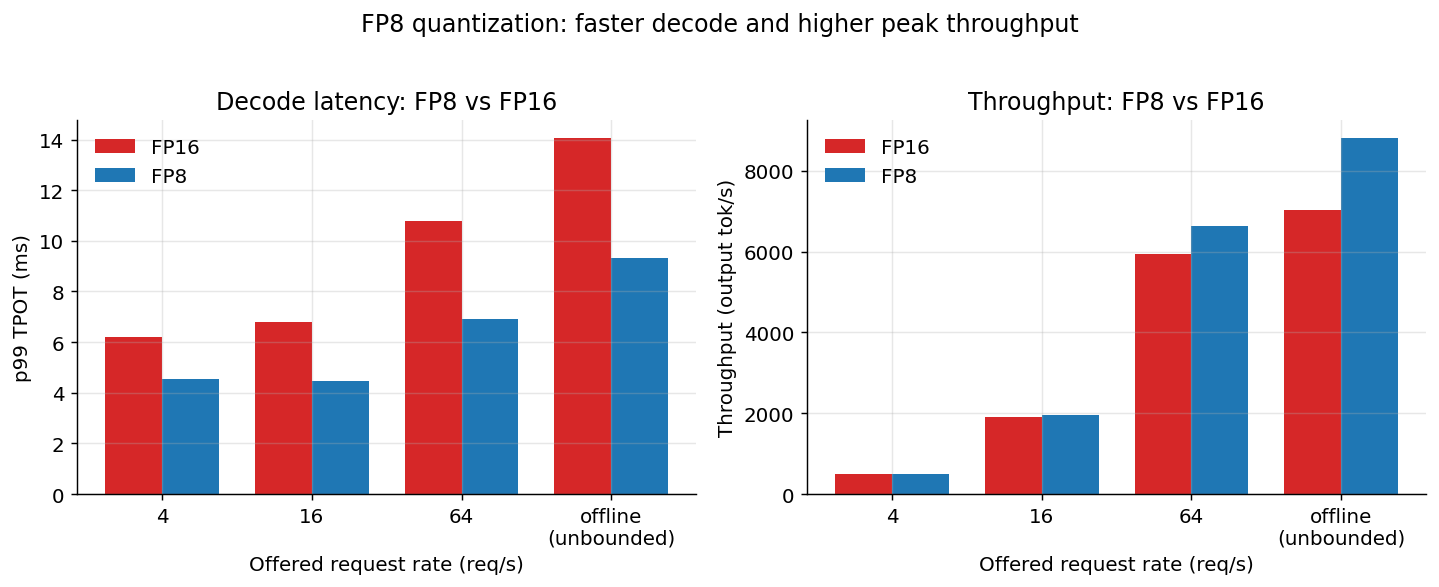
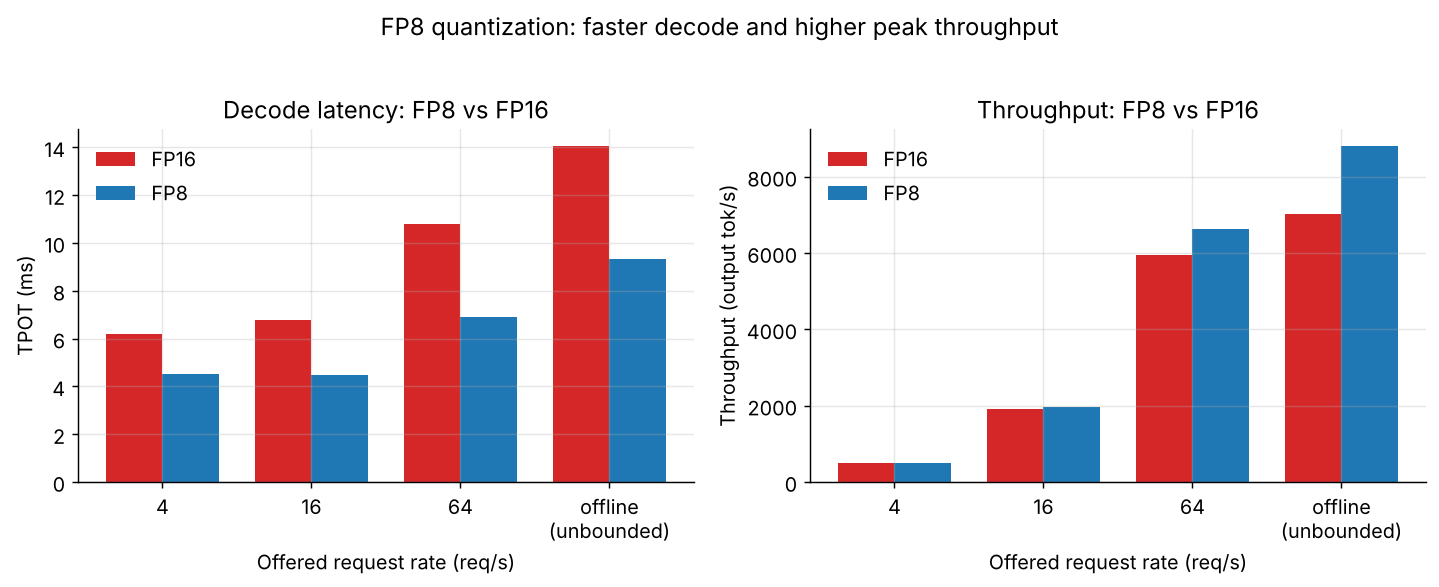
docs: correct CUDA graph and FP8 reductions, TPOT labels and sample limits

diff --git a/plot_results.py b/plot_results.py
@@ -89,7 +89,7 @@ def plot_sweep_latency(df):
     axA.set_title("Time-to-first-token cliffs at saturation")
     lo, hi = df["p99_ttft_ms"].iloc[0], df["p99_ttft_ms"].iloc[-1]
     axA.annotate(
-        f"~{lo:.0f} ms  ->  {hi:,.0f} ms\n(~{hi / lo:.0f}x)",
+        f"~{lo:.0f} ms  ->  {hi:,.0f} ms\n(unbounded burst)",
         xy=(xt.iloc[-1], hi), xytext=(xt.iloc[1], hi * 0.35),
         fontsize=9, color="#333",
         arrowprops=dict(arrowstyle="->", color="#666"),
@@ -97,7 +97,7 @@ def plot_sweep_latency(df):
 
     axB.plot(xt, df["p99_tpot_ms"], marker="o", color=C_PRIMARY, lw=2)
     axB.set_xlabel("Achieved throughput (output tok/s)")
-    axB.set_ylabel("p99 TPOT (ms)")
+    axB.set_ylabel("TPOT (ms)")
     axB.set_title("Time-per-output-token degrades gently")
     lo2, hi2 = df["p99_tpot_ms"].iloc[0], df["p99_tpot_ms"].iloc[-1]
     axB.annotate(
@@ -124,12 +124,13 @@ def plot_cuda_graphs(df):
            color=C_PRIMARY, label="CUDA graphs on (default)")
     ax.set_xticks(list(x))
     ax.set_xticklabels([f"{int(r)} req/s" for r in df["rate"]])
-    ax.set_ylabel("p99 TPOT (ms)")
+    ax.set_ylabel("TPOT (ms)")
     ax.set_title("CUDA graphs amortize per-step launch overhead")
     ax.legend(frameon=False)
     for i, (_, row) in enumerate(df.iterrows()):
         ax.text(i, max(row["tpot_eager_ms"], row["tpot_graphs_on_ms"]) + 0.25,
-                f"-{int(row['gap_pct'])}%", ha="center", fontsize=9, color="#333")
+                f"-{100 * (row['tpot_eager_ms'] - row['tpot_graphs_on_ms']) / row['tpot_eager_ms']:.0f}%",
+                ha="center", fontsize=9, color="#333")
     fig.tight_layout()
     out = PLOTS / "cuda_graphs_tpot.png"
     fig.savefig(out)
@@ -148,7 +149,7 @@ def plot_fp8_vs_fp16(df):
     axA.set_xticks(list(x))
     axA.set_xticklabels(labels)
     axA.set_xlabel("Offered request rate (req/s)")
-    axA.set_ylabel("p99 TPOT (ms)")
+    axA.set_ylabel("TPOT (ms)")
     axA.set_title("Decode latency: FP8 vs FP16")
     axA.legend(frameon=False)
 

diff --git a/README.md b/README.md
@@ -4,56 +4,49 @@ Profiling LLM inference serving on a single **NVIDIA H100 NVL**: a latency–thr
 characterization, the impact of **CUDA graphs**, and an **FP8 vs FP16** quantization
 comparison — each as a clean controlled experiment with honest methodology and reproducible plots.
 
-**Stack:** Qwen2.5-7B-Instruct · vLLM 0.23.0 · NVIDIA H100 NVL (94 GB) · benchmarked with `vllm bench serve` (p99, Poisson arrivals, fixed output length)
+**Stack:** Qwen2.5-7B-Instruct · vLLM 0.23.0 · NVIDIA H100 NVL (94 GB) · benchmarked with `vllm bench serve` (p99 TTFT, Poisson arrivals, fixed output length)
 
 ---
 
 ## Key findings
 
-### 1. Throughput saturates near ~55 req/s · ~7,000 tok/s — and the wall is TTFT, not TPOT
+### 1. Throughput saturates near ~55 req/s · ~7,000 tok/s, and overload shows up in TTFT, not TPOT
 
-As offered load rises to saturation, the two latency metrics fail **asymmetrically**:
+As offered load rises, the two latency metrics move very differently:
 
-- **p99 TTFT** cliffs from **~45 ms** under light load to **~1,970 ms** at saturation — roughly **44×**.
-- **p99 TPOT** over the same range rises only **~2.3×** (6.5 ms → 15.3 ms).
+- **p99 TTFT** is 45-58 ms up to 16 req/s and 102 ms at 32 req/s. An unbounded burst reaches **~1,970 ms**.
+- **TPOT** over the same range rises only **~2.3×** (6.5 ms → 15.3 ms).
 
-That asymmetry is the headline: once the server saturates, queueing hammers *time-to-first-token*
-while *per-token* latency stays well-behaved. The practical consequence is that the serving SLO knee
-is set by **TTFT**, so the right operating point is back off the saturation rate to keep first-token
-latency in budget. See the full curve in [Results](#results).
+Once the server saturates, queueing delays the first token while per-token latency stays well-behaved. In this data, that makes TTFT the metric to set an operating rate from. See the full curve in [Results](#results).
+
+**Limits of this data.** Each rate is one run. The request count wasn't logged. Working back from throughput and drain time gives about 200-275 requests per run, so each p99 is roughly the 2nd or 3rd worst request. The burst's TTFT scales with how many requests arrive at once, so it isn't a capacity number. At 64 req/s the offered load is above capacity and the run lasts only about 5 seconds, so that row isn't a steady operating point.
 
 ![Latency vs achieved throughput — TTFT cliffs while TPOT degrades gently](plots/sweep_latency.png)
 
-### 2. CUDA graphs cut decode TPOT ~45–50%
+### 2. CUDA graphs cut decode TPOT 31-34%
 
-Comparing the default (CUDA graphs on) against `--enforce-eager` (graphs off) at low-to-moderate
-rates, where per-step kernel-launch overhead is a larger fraction of step time:
+Comparing the default (CUDA graphs on) against `--enforce-eager` (graphs off):
 
-| Rate (req/s) | TPOT graphs on (ms) | TPOT eager (ms) | Gap (ms) | Gap (%) |
+| Rate (req/s) | TPOT graphs on (ms) | TPOT eager (ms) | Gap (ms) | Reduction (%) |
 |---:|---:|---:|---:|---:|
-| 4  | 6.20 | 9.37 | 3.17 | 51% |
-| 8  | 6.39 | 9.27 | 2.88 | 45% |
-| 32 | 7.66 | 11.30 | 3.64 | 48% |
+| 4  | 6.20 | 9.37 | 3.17 | 34% |
+| 8  | 6.39 | 9.27 | 2.88 | 31% |
+| 32 | 7.66 | 11.30 | 3.64 | 32% |
 
-Capturing the decode step into a CUDA graph **amortizes per-step launch overhead** across the many
-small kernels of a token step, removing ~3 ms of per-token latency — a consistent **45–51%** TPOT
-reduction here.
+CUDA graphs remove about 3 ms per token, a consistent **31-34%** TPOT reduction. The likely reason is lower launch overhead across the many small kernels of a token step. That wasn't profiled here. The reduction divides the gap by the eager time. The CSV's `gap_pct` column divides by the graphs-on time, which is why it reads 45-51%.
 
-![p99 TPOT: CUDA graphs on vs eager](plots/cuda_graphs_tpot.png)
+![TPOT: CUDA graphs on vs eager](plots/cuda_graphs_tpot.png)
 
-### 3. FP8 gives ~30% faster decode and ~25% higher peak throughput — quality preserved
+### 3. FP8 gives 27-36% lower TPOT and ~25% higher peak throughput, quality preserved
 
 Running FP8 (`RedHatAI/Qwen2.5-7B-Instruct-FP8-dynamic`) against FP16 on the identical protocol:
 
-- **Decode latency:** FP8 is **~30–35% lower** p99 TPOT across the sweep (e.g. offline: 14.06 → 9.31 ms).
+- **Decode latency:** FP8 has **27-36% lower** TPOT across the sweep (e.g. offline: 14.06 → 9.31 ms).
 - **Peak throughput:** FP8 reaches **8,810 tok/s** offline vs FP16's **7,028 tok/s** — about **+25%**.
 - **Quality:** preserved on real-prompt coherence checks (see [METHODOLOGY](METHODOLOGY.md)), so the
   speedup is end-to-end, not just a microbenchmark win.
 
-The ~30% decode speedup lands **well below the ~2× you'd expect from FP8 matmul alone** — **Amdahl's
-law** in action. Decode is memory-bound, and the non-matmul portions of each step (attention over the
-KV cache, dequantization, sampling, kernel launches) don't get the 2×, so the achievable speedup is
-bounded by the matmul fraction of the step.
+The speedup lands well below the ~2× you might expect from FP8 matmul alone. Assuming a 2× matmul speedup, Amdahl's law gives a matmul fraction of 54-72% from TPOT and 40% from peak throughput. No single fraction fits, so one Amdahl term doesn't explain this data. The decode step wasn't profiled, so where the rest of the time goes isn't measured here.
 
 ![FP8 vs FP16 — decode latency and throughput](plots/fp8_vs_fp16.png)
 
@@ -63,7 +56,7 @@ bounded by the matmul fraction of the step.
 
 Full latency–throughput sweep ([`results/vllm_sweep_qwen7b.csv`](results/vllm_sweep_qwen7b.csv)):
 
-| Offered rate (req/s) | Achieved req/s | Output tok/s | p99 TTFT (ms) | p99 TPOT (ms) |
+| Offered rate (req/s) | Achieved req/s | Output tok/s | p99 TTFT (ms) | TPOT (ms) |
 |---:|---:|---:|---:|---:|
 | 4   | 3.94  | 503.73  | 45.26   | 6.52  |
 | 8   | 7.74  | 991.03  | 53.99   | 6.62  |
@@ -83,6 +76,8 @@ FP8 vs FP16 ([`results/fp8_vs_fp16.csv`](results/fp8_vs_fp16.csv)):
 | 64  | 10.80 | 6.90 | 5951 | 6645 |
 | offline (∞) | 14.06 | 9.31 | 7028 | 8810 |
 
+TPOT differs between this table and the sweep at the same throughput (6.20 vs 6.52 ms at 4 req/s, 14.06 vs 15.32 ms offline), so the two CSVs don't record the same statistic. The repo can't settle which is p99, so TPOT isn't labeled p99 here, even though the CSV column names say so. Comparisons within one table aren't affected.
+
 Raw CSVs for every experiment live in [`results/`](results/); the plots above are regenerated from
 them by [`plot_results.py`](plot_results.py).
 
@@ -97,7 +92,7 @@ python3 plot_results.py        # reads results/*.csv, writes PNGs to plots/
 
 The benchmark numbers themselves were collected with vLLM's `vllm bench serve` against an
 OpenAI-compatible endpoint — see [METHODOLOGY.md](METHODOLOGY.md) for the exact protocol (controlled
-single-variable comparisons, p99 reporting, `--ignore-eos` fixed output lengths, Poisson arrivals).
+single-variable comparisons, p99 TTFT reporting, `--ignore-eos` fixed output lengths, Poisson arrivals).
 
 ---
 
@@ -137,7 +132,7 @@ same H100 with the identical protocol. Details: [`results/trtllm_install_notes.m
 | Model | Qwen2.5-7B-Instruct (FP8: `RedHatAI/Qwen2.5-7B-Instruct-FP8-dynamic`) |
 | Serving engine | vLLM 0.23.0 |
 | Benchmark tool | `vllm bench serve` (OpenAI-compatible endpoint) |
-| Metrics | p99 TTFT, p99 TPOT, throughput (req/s and output tok/s) |
+| Metrics | p99 TTFT, TPOT, throughput (req/s and output tok/s) |
 
 ## License
 

diff --git a/METHODOLOGY.md b/METHODOLOGY.md
@@ -4,7 +4,7 @@ All benchmarks run on a single NVIDIA H100 NVL (94GB), serving Qwen2.5-7B-Instru
 
 ## Principles
 - Controlled comparison: only one variable changes per experiment; model, precision, dataset, and lengths are held constant otherwise.
-- Percentile reporting (p99), not means, since tail latency is the real serving constraint.
+- Percentile reporting (p99 TTFT), not means, since tail latency is the real serving constraint.
 - Fixed output length via `--ignore-eos` for clean, comparable measurements.
 - Poisson request arrival (the tool's default) to model realistic load.
 
@@ -18,7 +18,7 @@ Swept request rate from light load to saturation — 4, 8, 16, 32, and 64 req/s 
 Compared default (graphs on) vs `--enforce-eager` (graphs off) at low-to-moderate rates, where per-step launch overhead is a larger fraction of step time.
 
 ## Quantization experiment
-Benchmarked FP8 vs FP16 on the identical protocol, measuring both performance (throughput, p99 TPOT) and output quality (coherence on real prompts), to validate quantization helped end-to-end, not just in microbenchmarks.
+Benchmarked FP8 vs FP16 on the identical protocol, measuring both performance (throughput, TPOT) and output quality (coherence on real prompts), to validate quantization helped end-to-end, not just in microbenchmarks.
 
 ## Profiling
 Captured torch-profiler traces during a small request burst (`--profile`) to inspect the per-token kernel launch pattern and confirm decode is dominated by memory-bound projection matmuls.
